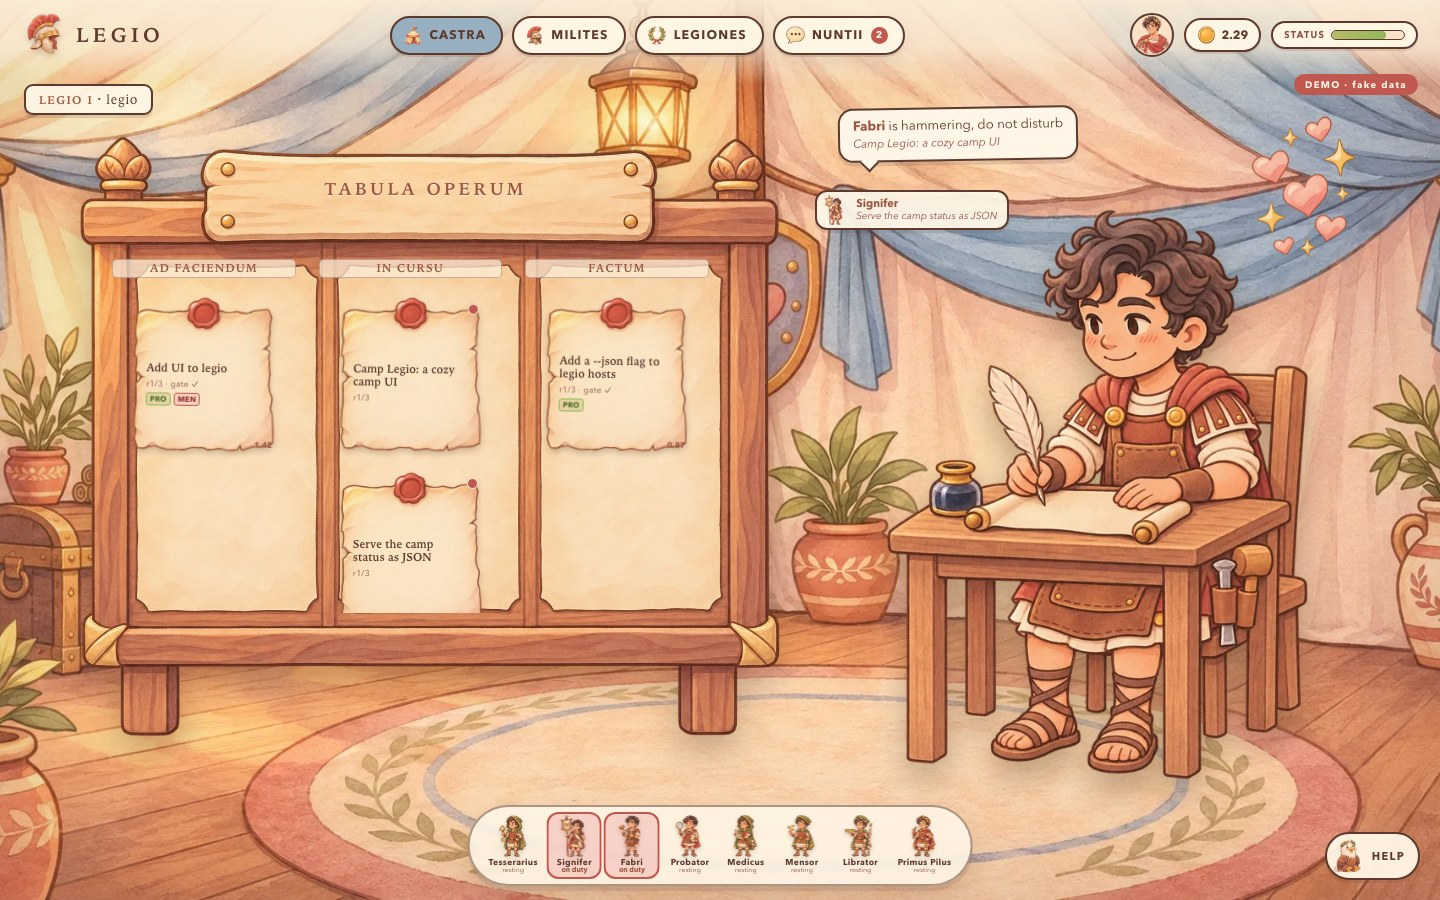
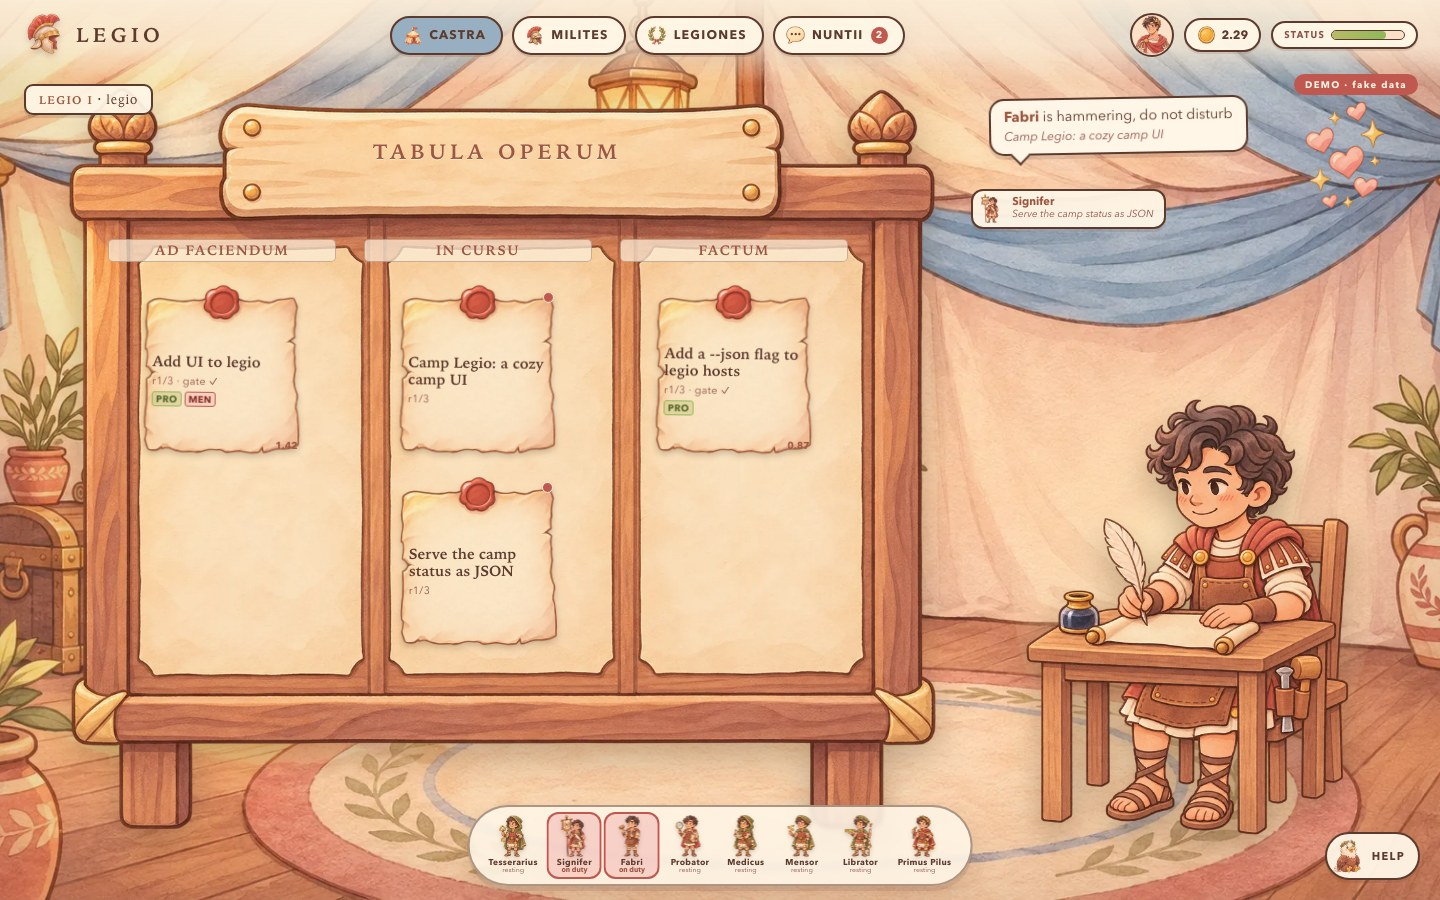
web: give the board the screen — larger tent board and notes
The TABULA OPERUM was tuned at 1440 and read small: a 57% column and 10px
notes. Widen it to 68% of the tent layout, raise the max board width with the
viewport (74vw, capped at 1200px), drop the side padding, and grow the notes,
labels and their type. The working role keeps the right edge and may overlap
the board frame slightly, as in the reference. Desks, bubbles and the shift
panel scale with it; screenshots at 1440 and 1920 are updated.

diff --git a/web/styles.css b/web/styles.css
@@ -440,12 +440,12 @@ a { color: inherit; }
 
 .tent-layout {
   position: absolute;
-  inset: 86px 0 118px 0;
+  inset: 74px 0 88px 0;
   z-index: 10;
   display: grid;
-  grid-template-columns: minmax(0, 57%) minmax(0, 43%);
-  gap: 0.5%;
-  padding: 0 3%;
+  grid-template-columns: minmax(0, 68%) minmax(0, 32%);
+  gap: 0;
+  padding: 0 1.6%;
 }
 
 .board-wrap {
@@ -453,7 +453,7 @@ a { color: inherit; }
   align-self: center;
   justify-self: center;
   width: 100%;
-  max-width: 850px;
+  max-width: min(74vw, 1200px);
   max-height: 100%;
   aspect-ratio: 1331 / 1072;
 }
@@ -477,7 +477,7 @@ a { color: inherit; }
   place-items: center;
   font-family: var(--font-display);
   font-weight: 700;
-  font-size: clamp(10px, 1.2vw, 17px);
+  font-size: clamp(13px, 1.45vw, 21px);
   letter-spacing: 0.2em;
   color: var(--brick);
   text-shadow: 0 1px 0 rgba(255, 246, 231, 0.7);
@@ -500,7 +500,7 @@ a { color: inherit; }
   border-radius: 5px;
   background: rgba(252, 238, 217, 0.72);
   font-family: var(--font-display);
-  font-size: clamp(7.5px, 0.78vw, 11px);
+  font-size: clamp(8.5px, 0.95vw, 14px);
   font-weight: 700;
   letter-spacing: 0.11em;
   color: var(--brick);
@@ -545,19 +545,18 @@ a { color: inherit; }
   position: relative;
   flex: none;
   display: block;
-  width: 92%;
-  aspect-ratio: 396 / 400;
+  width: 82%;
+  aspect-ratio: 1 / 1;
   border: 0;
   margin: 0;
-  padding: 20% 14% 9%;
+  padding: 17% 10% 7%;
   background: url("assets/note.webp") center / 100% 100% no-repeat;
   color: var(--ink);
   text-align: left;
   cursor: pointer;
   transform: rotate(var(--rot, 0deg));
-  filter: drop-shadow(0 3px 3px rgba(60, 40, 20, 0.25));
-  transition: transform 0.15s ease;
-  overflow: hidden;
+  filter: drop-shadow(0 3px 3px rgba(60, 40, 20, 0.24));
+  transition: transform 0.15s ease, filter 0.15s ease;
 }
 
 .note:nth-child(3n) { --rot: -1.1deg; }
@@ -566,6 +565,7 @@ a { color: inherit; }
 
 .note:hover, .note:focus-visible {
   transform: rotate(0deg) scale(1.03);
+  filter: drop-shadow(0 5px 6px rgba(60, 40, 20, 0.3));
   outline: 2px dashed rgba(193, 88, 80, 0.55);
   outline-offset: 3px;
 }
@@ -576,16 +576,16 @@ a { color: inherit; }
   -webkit-box-orient: vertical;
   overflow: hidden;
   font-family: var(--font-display);
-  font-size: clamp(8.5px, 0.78vw, 11px);
+  font-size: clamp(10px, 1.02vw, 15px);
   font-weight: 600;
-  line-height: 1.14;
+  line-height: 1.15;
   overflow-wrap: anywhere;
 }
 
 .note-meta {
   display: block;
   margin-top: 3px;
-  font-size: clamp(6.5px, 0.6vw, 8.5px);
+  font-size: clamp(7.5px, 0.74vw, 11px);
   letter-spacing: 0.03em;
   color: var(--ink-2);
 }
@@ -599,7 +599,7 @@ a { color: inherit; }
 
 .mark {
   font-style: normal;
-  font-size: clamp(5.5px, 0.54vw, 7.5px);
+  font-size: clamp(6.5px, 0.68vw, 9.5px);
   font-weight: 700;
   letter-spacing: 0.03em;
   padding: 0 3px;
@@ -669,7 +669,7 @@ a { color: inherit; }
   position: absolute;
   right: 8%;
   bottom: 5%;
-  font-size: clamp(6px, 0.56vw, 8px);
+  font-size: clamp(7px, 0.7vw, 10px);
   font-weight: 700;
   color: var(--brick);
 }
@@ -721,8 +721,8 @@ a { color: inherit; }
 .worker {
   position: relative;
   z-index: 2;
-  height: 94%;
-  max-height: 620px;
+  height: 92%;
+  max-height: 680px;
   width: auto;
   max-width: 100%;
   object-fit: contain;
@@ -751,7 +751,7 @@ a { color: inherit; }
   border: 2px solid var(--ink);
   border-radius: 15px;
   background: var(--cream);
-  font-size: clamp(10px, 0.92vw, 13.5px);
+  font-size: clamp(11px, 1vw, 15px);
   line-height: 1.3;
   box-shadow: 0 4px 0 rgba(93, 58, 46, 0.16);
   transform: rotate(-1deg);
